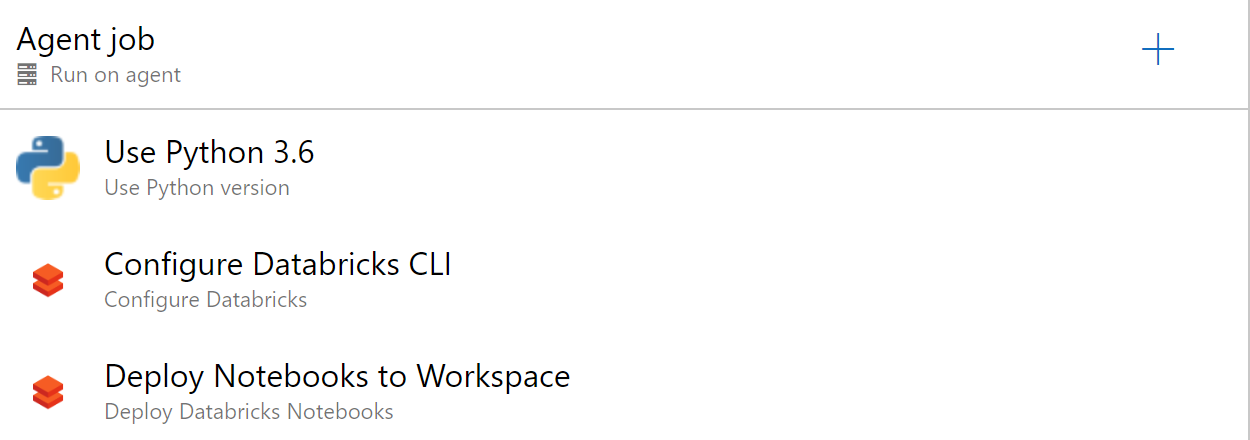
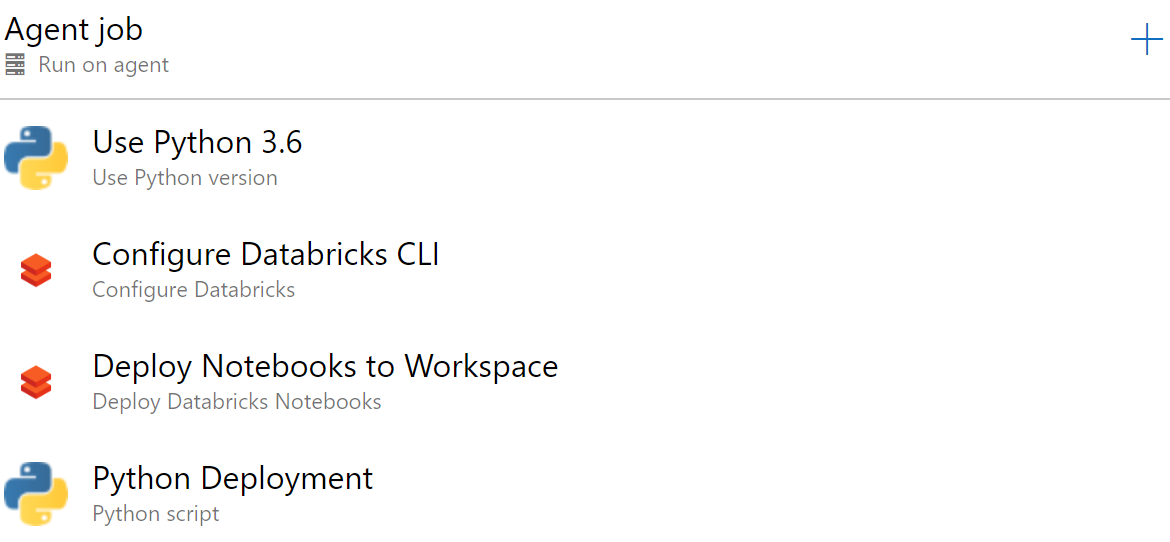
Adding Notebook Job Deployment and Error Handling (#5)
* Adding notebook job functionality

```
python deployment.py notebook \
na \
na \
local/path/to/job.json \
--notebook-path "/Databricks/Path/"
```

* Adding error logic handling and simplifying the job json for notebok

* Updated notebook release image

Changed region(s): [[0.0, 0.0, 1.0, 1.0], [0.0, 0.8273, 0.4615, 0.975], [0.9231, 0.0886, 0.9538, 0.1477]]

diff --git a/deployment.py b/deployment.py
@@ -30,18 +30,20 @@ if __name__ == "__main__":
     )
     parser.add_argument('objective',
         default="jar",
-        choices=["jar","egg"],
-        help="Valid options are jar or egg")
+        choices=["jar","egg", "notebook"],
+        help="Valid options are jar, egg, or notebook")
     parser.add_argument('library_path',
-        help="The library or folder containing libraries to include")
+        help="The library or folder containing libraries to include. Use na for no libraries.")
     parser.add_argument('cloud_path',
-        help="The path in the cloud (e.g. DBFS, WASB) that the library is located")
+        help="The path in the cloud (e.g. DBFS, WASB) that the library is located. Use na for no libraries.")
     parser.add_argument('job_json',
         help="The path to the job definition (only applicable to Databricks)")
     parser.add_argument('--python-file',
-        help="The python file that runs the python application")
+        help="(egg option) The python file that runs the python application")
     parser.add_argument('--main-class',
-        help="The main class of your scala jar application")
+        help="(jar option) The main class of your scala jar application")
+    parser.add_argument('--notebook-path',
+        help="(notebook option)The path to your notebook in your databricks workspace")
     parser.add_argument('--profile',
         default=None,
         help="Profile name to be passed to the databricks CLI"
@@ -58,41 +60,67 @@ if __name__ == "__main__":
     )
     args = parser.parse_args()
 
+    map_objective_to_task = {
+        "jar": "spark_jar_task",
+        "egg": "spark_python_task",
+        "notebook": "notebook_task"
+    }
+
     with open(args.job_json, 'r') as jobfp:
         job_def = json.load(jobfp)
     
+    # If the library path attribute is na then skip adding libraries
     # Is it one or many objects to install as libraries?
-    if os.path.isdir(args.library_path):
-        # Directory path specified, grab all files of type args.objective
-        # TODO: Decide if this should be recursive or not?
-        all_packages = [
-            p for p in os.listdir(args.library_path) 
-                if os.path.splitext(p)[1] == '.' + args.objective
+    if args.library_path.strip().lower() != "na":
+        if os.path.isdir(args.library_path):
+            # Directory path specified, grab all files of type args.objective
+            # TODO: Decide if this should be recursive or not?
+            all_packages = [
+                p for p in os.listdir(args.library_path) 
+                    if os.path.splitext(p)[1] == '.' + args.objective
+            ]
+        else:
+            all_packages = [args.library_path]
+        
+        # Get the library's name and it's destination folder
+        # Replace the job.json's content
+        job_def["libraries"] = [
+            {args.objective: posixpath.join(args.cloud_path, package)} for package in all_packages
         ]
-    else:
-        all_packages = [args.library_path]
-    
-    # Get the Jar's name and it's destination folder
-    # Replace the job.json's content
-    job_def["libraries"] = [
-        {args.objective: posixpath.join(args.cloud_path, package)} for package in all_packages
-    ]
 
-    # If it's an egg, we use spark_python_task, otherwise it's spark_jar_task
-    objective_task_name = "spark_python_task" if args.objective == "egg" else "spark_jar_task"
-    if args.objective == "egg":
+    # Get the task type based on the passed in objective
+    objective_task_name = map_objective_to_task[args.objective]
+    if objective_task_name == "spark_python_task":
         # You need a python_file to run the app
         job_def[objective_task_name] = {
             "python_file": args.python_file
         }
-    else:
+    elif objective_task_name == "spark_jar_task":
         # You need a main_class_name to run the app
         job_def[objective_task_name] = {
             "main_class_name": args.main_class
         }
+    else:
+        # Assuming notebook task
+        job_def[objective_task_name] = {
+            "notebook_path": args.notebook_path
+        }
+        # Adding in parameters if they are available
+        if args.parameters:
+            # Assuming --parameters key1 value1 key2 value2
+            # If it's not an even set of pairs
+            if len(args.parameters) % 2 != 0:
+                raise IndexError("Parameters passed into a notebook task must be an even number of attributes as it assumes key, value pairs")
+            
+            pair_indexes = [x for x in range(len(args.parameters)) if x %2 == 0]
+            
+            job_def[objective_task_name].update(
+                {"base_parameters": {args.parameters[x]:args.parameters[x+1] for x in pair_indexes }}
+            )
     
+    # Back to the main flow
     # Parameters is an attribute across egg and jar tasks
-    if args.parameters:
+    if args.parameters and objective_task_name != "notebook_task":
         job_def[objective_task_name].update(
             {"parameters":args.parameters}
         )
@@ -170,10 +198,8 @@ if __name__ == "__main__":
     print("Succeeded in performing {} with job_id {}".format(
         CLI_VERB, resulting_job_id
     ))
-
-    # This prints a specific format for Azure DevOps to pick up output as a variable
-    print("##vso[task.setvariable variable=DBR_JOB_ID]{}".format(resulting_job_id))
-
-
-
-    
+    if call_results_json.decode('utf-8').lower().startswith("error"):
+        raise Exception("The Databricks Job deployment failed with error: {}".format(call_results_json.decode('utf-8')))
+    else:    
+      # This prints a specific format for Azure DevOps to pick up output as a variable
+      print("##vso[task.setvariable variable=DBR_JOB_ID]{}".format(resulting_job_id))

diff --git a/README.md b/README.md
@@ -175,6 +175,14 @@ Add the following tasks to both the QA and Prod stages (Pro Tip: You can do this
    * Set Notebooks Folder to `$(System.DefaultWorkingDirectory)/_code/Notebook`
    * Set Workspace Folder to `/Shared`
    * This will recreate the entire `_code/Notebook` structure (notebooks and folders) in the `/Shared/` folder in Databricks.
+1. Python Script
+    * Script Source: File Path
+    * Script Path: `$(System.DefaultWorkingDirectory)/_code/deployment.py`
+    * Arguments: 
+  
+  ```
+  notebook na na $(System.DefaultWorkingDirectory)/_code/Notebook/job.json --notebook-path "/SparkSimpleNotebook" --profile AZDO --parameters "input" "/mnt/input/bank/bank.csv" "output" "/mnt/output/SparkSimpleAppNotebook/test" 
+  ``` 
 
 To add further to this example, you might:
 * Deploy your notebook to a versioned folder number based on the [Pre-defined release variable](https://docs.microsoft.com/en-us/azure/devops/pipelines/release/variables?view=azure-devops&tabs=batch#default-variables) of `Release.DeploymentID`.
@@ -182,6 +190,22 @@ To add further to this example, you might:
 * Execute the notebook with the Microsoft DevLabs extension task.
 
 You now have a working pipeline to deploy Azure Databricks Notebooks!  Save and execute the Release!
+
+## Additional Functionality
+
+### Update an Existing Job by Name or Job_ID
+
+This deployment script does NOT help with identifying existing jobs and shutting them down.
+
+Instead, you can specify the `--update-if-exists` flag to change an existing job if it is found.
+
+You can either pass `--update-if-exists job_id XXX` with XXX being a known job-id and it will update the job found when looking up job-id XXX.
+
+Alternatively, you can pass in the name of the job like `--update-if-exists name my_job_name`.  This will look up the job-id for the first match it finds (ordering not guaranteed) based on the name of the job.  The downsides are:
+* Databricks allows for multiple jobs to share the same name (why?!?)
+* The output of `databricks jobs list` seems to be smaller job-id first.
+* You could miss existing active jobs with schedules if they have later job-id's and the same name.
+
 
 # deployment.py
 
@@ -191,27 +215,34 @@ The help file below describes the usage.
 
 ```
 usage: deployment.py [-h] [--python-file PYTHON_FILE]
-                     [--main-class MAIN_CLASS] [--profile PROFILE]
+                     [--main-class MAIN_CLASS] [--notebook-path NOTEBOOK_PATH]
+                     [--profile PROFILE]
                      [--update-if-exists UPDATE_IF_EXISTS UPDATE_IF_EXISTS]
                      [--parameters ...]
-                     {jar,egg} library_path cloud_path job_json
+                     {jar,egg,notebook} library_path cloud_path job_json
 
 Deploy a set of jar or egg files as a Spark application
 
 positional arguments:
-  {jar,egg}             Valid options are jar or egg
-  library_path          The library or folder containing libraries to include
+  {jar,egg,notebook}    Valid options are jar, egg, or notebook
+  library_path          The library or folder containing libraries to include.
+                        Use na for no libraries.
   cloud_path            The path in the cloud (e.g. DBFS, WASB) that the
-                        library is located
+                        library is located. Use na for no libraries.
   job_json              The path to the job definition (only applicable to
                         Databricks)
 
 optional arguments:
   -h, --help            show this help message and exit
   --python-file PYTHON_FILE
-                        The python file that runs the python application
+                        (egg option) The python file that runs the python
+                        application
   --main-class MAIN_CLASS
-                        The main class of your scala jar application
+                        (jar option) The main class of your scala jar
+                        application
+  --notebook-path NOTEBOOK_PATH
+                        (notebook option)The path to your notebook in your
+                        databricks workspace
   --profile PROFILE     Profile name to be passed to the databricks CLI
   --update-if-exists UPDATE_IF_EXISTS UPDATE_IF_EXISTS
                         Looks for a job_id or name (useful only for Databricks
